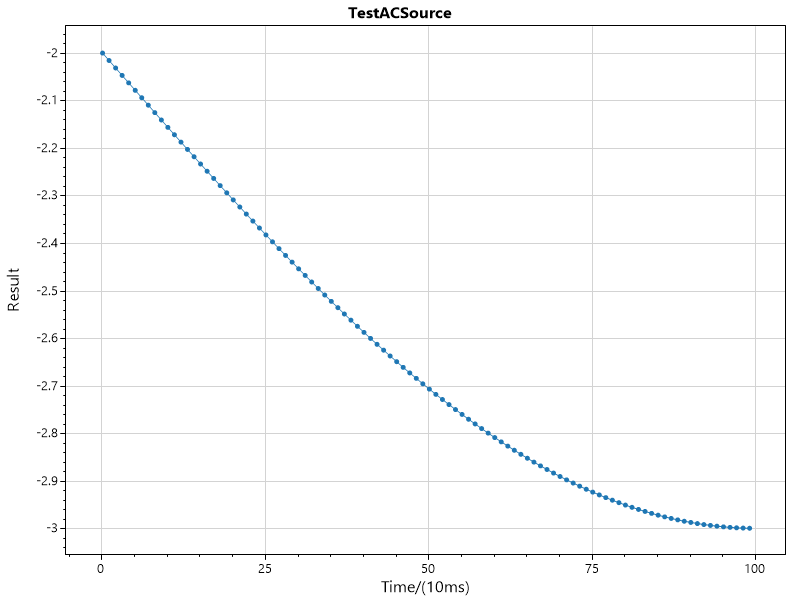
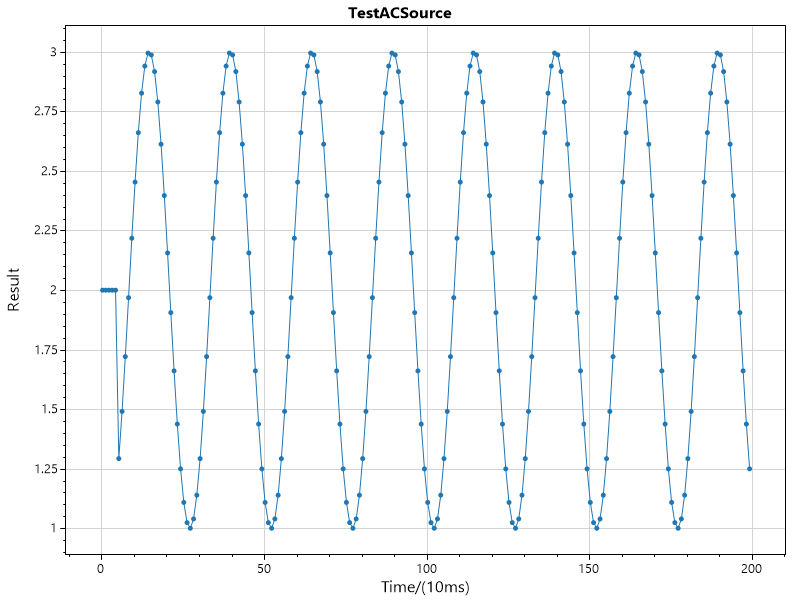
finished sine wave generator tests

diff --git a/test-library/TestTransientAnalysis.cs b/test-library/TestTransientAnalysis.cs
@@ -7,6 +7,109 @@ using Xunit;
 
 namespace test_library {
     public class TestTransientAnalysis {
+
+        public static Circuit ACVSourceTestCircuit() {
+            var testCkt = new Circuit("ACVSourceTestCircuit");
+            var gnd = testCkt.Ground;
+            var node0 = testCkt.GenNode();
+            testCkt.AddComponent(new Resistor("R1", 1, node0, gnd));
+
+            var vs = new VSource("vSin", 1, node0, gnd);
+            vs.SetSine(2, 4, 50E-3, -Math.PI / 4);
+            testCkt.AddComponent(vs);
+            return testCkt;
+        }
+
+        public static Circuit ACISourceTestCircuit() {
+            var testCkt = new Circuit("ACISourceTestCircuit");
+            var gnd = testCkt.Ground;
+            var node0 = testCkt.GenNode();
+            testCkt.AddComponent(new Resistor("R1", 1, node0, gnd));
+
+            var @is = new ISource("iSin", 1, node0, gnd);
+            @is.SetSine(2, 4, 50E-3, -Math.PI / 4);
+            testCkt.AddComponent(@is);
+            return testCkt;
+        }
+
+        [Fact]
+        static void TestACVSource() {
+            var ckt = ACVSourceTestCircuit();
+            var data = new TransientAnalysisData(ckt, 1E-2, 2);
+            TransientAnalysis.Analyze(ckt, ref data);
+            var dataVList = new List<double>();
+            foreach (var item in data.Result) {
+                dataVList.Add(-item[1]);
+            }
+            double[] dataV = dataVList.ToArray();
+
+            double[] shouldDataV = {
+                2,
+                2,
+                2,
+                2,
+                2,
+                1.2928932188134525,
+                1.4909585842496287,
+                1.7210088939607708,
+                1.9685892409218717,
+                2.2181432413965423,
+                2.4539904997395467,
+                2.6613118653236514,
+                2.8270805742745617,
+                2.940880768954225,
+                2.99556196460308,
+                2.9876883405951378,
+                2.9177546256839815,
+                2.79015501237569,
+                2.612907053652976,
+                2.39714789063478,
+            };
+
+            for (int i = 0; i < 20; i++) {
+                Assert.True(Precision.AlmostEqual(dataV[i], shouldDataV[i], 8));
+            }
+        }
+
+        [Fact]
+        static void TestACISource() {
+            var ckt = ACISourceTestCircuit();
+            var data = new TransientAnalysisData(ckt, 1E-2, 2);
+            TransientAnalysis.Analyze(ckt, ref data);
+            var dataVList = new List<double>();
+            foreach (var item in data.Result) {
+                dataVList.Add(item[0]);
+            }
+            double[] dataV = dataVList.ToArray();
+
+            double[] shouldDataV = {
+                2,
+                2,
+                2,
+                2,
+                2,
+                1.2928932188134525,
+                1.4909585842496287,
+                1.7210088939607708,
+                1.9685892409218717,
+                2.2181432413965423,
+                2.4539904997395467,
+                2.6613118653236514,
+                2.8270805742745617,
+                2.940880768954225,
+                2.99556196460308,
+                2.9876883405951378,
+                2.9177546256839815,
+                2.79015501237569,
+                2.612907053652976,
+                2.39714789063478,
+            };
+
+            for (int i = 0; i < 20; i++) {
+                Assert.True(Precision.AlmostEqual(dataV[i], shouldDataV[i], 8));
+            }
+        }
+
         public static Circuit RCTestCircuit() {
             var testCkt = new Circuit("RCTestCircuit");
             var gnd = testCkt.Ground;

diff --git a/library/Components/Sources.cs b/library/Components/Sources.cs
@@ -1,20 +1,7 @@
 using System;
 
 namespace library {
-    public class PrimSourcePrototype : Component {
-        // A Primitive (Constant) current/voltage source.
-        public double Value;
-        public Node Positive;
-        public Node Negative;
-        public PrimSourcePrototype(string name, double value, Node positive, Node negative) {
-            this.Name = name;
-            this.Value = value;
-            this.Positive = positive;
-            this.Negative = negative;
-        }
-    }
-
-    public class SourcePrototype : PrimSourcePrototype {
+    public class SourcePrototype : Component {
         public enum WorkingMode {
             Constant,
             Sine,
@@ -24,6 +11,10 @@ namespace library {
         }
 
         public WorkingMode Mode;
+
+        public double Value;
+        public Node Positive;
+        public Node Negative;
 
         public double Offset;
         public double Frequency;
@@ -38,8 +29,13 @@ namespace library {
         // Duty Cycle for square waves
         public double DutyCycle;
 
-        public SourcePrototype(string name, double value, Node positive, Node negative) : base(name, value, positive, negative) {
+        public SourcePrototype(string name, double value, Node positive, Node negative) {
             // Initialize a current/voltage source.
+            this.Name = name;
+            this.Value = value;
+            this.Positive = positive;
+            this.Negative = negative;
+
             // The default working mode is Constant.
             this.Mode = WorkingMode.Constant;
         }
@@ -73,9 +69,9 @@ namespace library {
                     return this.Value;
                 }
                 case WorkingMode.Sine: {
-                    var omega = 2 * Math.PI / this.Frequency;
+                    var omega = 2 * Math.PI * this.Frequency;
                     var t = currentTime - Delay;
-                    var AC = t < 0 ?
+                    var AC = t >= 0 ?
                         this.Value * Math.Sin(omega * t + this.InitialPhase) :
                         0;
                     return this.Offset + AC;
@@ -105,10 +101,10 @@ namespace library {
                     if (t < 0) {
                         AC = 0;
                     } else if (t >= this.RiseTime) {
-                        return this.Value;
+                        AC = this.Value;
                     } else {
                         var k = this.Value / this.RiseTime;
-                        return k * t;
+                        AC = k * t;
                     }
                     return this.Offset + AC;
                 }

diff --git a/library/TransientAnalysis.cs b/library/TransientAnalysis.cs
@@ -32,52 +32,24 @@ namespace library {
 
             //* VSource
             companion.VSources = new List<VSource>();
-            foreach (var pvs in ckt.VSources) {
-                if (pvs is VSource) {
-                    VSource vs = (VSource)pvs;
-                    switch (vs.Mode) {
-                        case VSource.WorkingMode.Constant: {
-                            companion.AddComponent(pvs);
-                            break;
-                        }
-                        default: {
-                            companion.AddComponent(new VSource(
-                                $"__CurrentVS_{vs.Name}",
-                                vs.GetValue(currentTime),
-                                vs.Positive,
-                                vs.Negative
-                            ));
-                            break;
-                        }
-                    }
-                } else {
-                    companion.AddComponent(pvs);
-                }
+            foreach (var cvs in ckt.VSources) {
+                companion.AddComponent(new VSource(
+                    $"__CurrentVS_{cvs.Name}",
+                    cvs.GetValue(currentTime),
+                    cvs.Positive,
+                    cvs.Negative
+                ));
             }
 
             //* ISource
             companion.ISources = new List<ISource>();
-            foreach (var pis in ckt.ISources) {
-                if (pis is ISource) {
-                    ISource isc = (ISource)pis;
-                    switch (isc.Mode) {
-                        case ISource.WorkingMode.Constant: {
-                            companion.AddComponent(pis);
-                            break;
-                        }
-                        default: {
-                            companion.AddComponent(new VSource(
-                                $"__CurrentIS_{isc.Name}",
-                                isc.GetValue(currentTime),
-                                isc.Positive,
-                                isc.Negative
-                            ));
-                            break;
-                        }
-                    }
-                } else {
-                    companion.AddComponent(pis);
-                }
+            foreach (var cis in ckt.ISources) {
+                companion.AddComponent(new VSource(
+                    $"__CurrentIS_{cis.Name}",
+                    cis.GetValue(currentTime),
+                    cis.Positive,
+                    cis.Negative
+                ));
             }
 
             companion.Devices = new List<Device>();

diff --git a/app/Program.cs b/app/Program.cs
@@ -76,27 +76,28 @@ namespace app {
             testCkt.AddComponent(new Resistor("R1", 1, node0, gnd));
 
             var vs = new VSource("vSin", 1, node0, gnd);
-            vs.SetSine(2, 4, 1, Math.PI / 2);
+            vs.SetSine(2, 4, 50E-3, -Math.PI / 4);
             testCkt.AddComponent(vs);
             return testCkt;
         }
 
         static void TestACSource() {
             var ckt1 = ACVSourceTestCkt();
-            var data1 = new TransientAnalysisData(ckt1, 1E-2, 1);
+            var data1 = new TransientAnalysisData(ckt1, 1E-2, 2);
             TransientAnalysis.Analyze(ckt1, ref data1);
             var dataVList1 = new List<double>();
             foreach (var item in data1.Result) {
-                dataVList1.Add(item[1]);
+                dataVList1.Add(-item[1]);
             }
             double[] dataV1 = dataVList1.ToArray();
 
             /*
             for (int i = 0; i < 20; i++) {
-                Console.Write("{0}, ", dataV[i]);
+                Console.Write("{0}, ", dataV1[i]);
             }
             Console.WriteLine();
             */
+
 
             int pointCount = dataV1.Length;
             double[] dataXs = ScottPlot.DataGen.Consecutive(pointCount);
